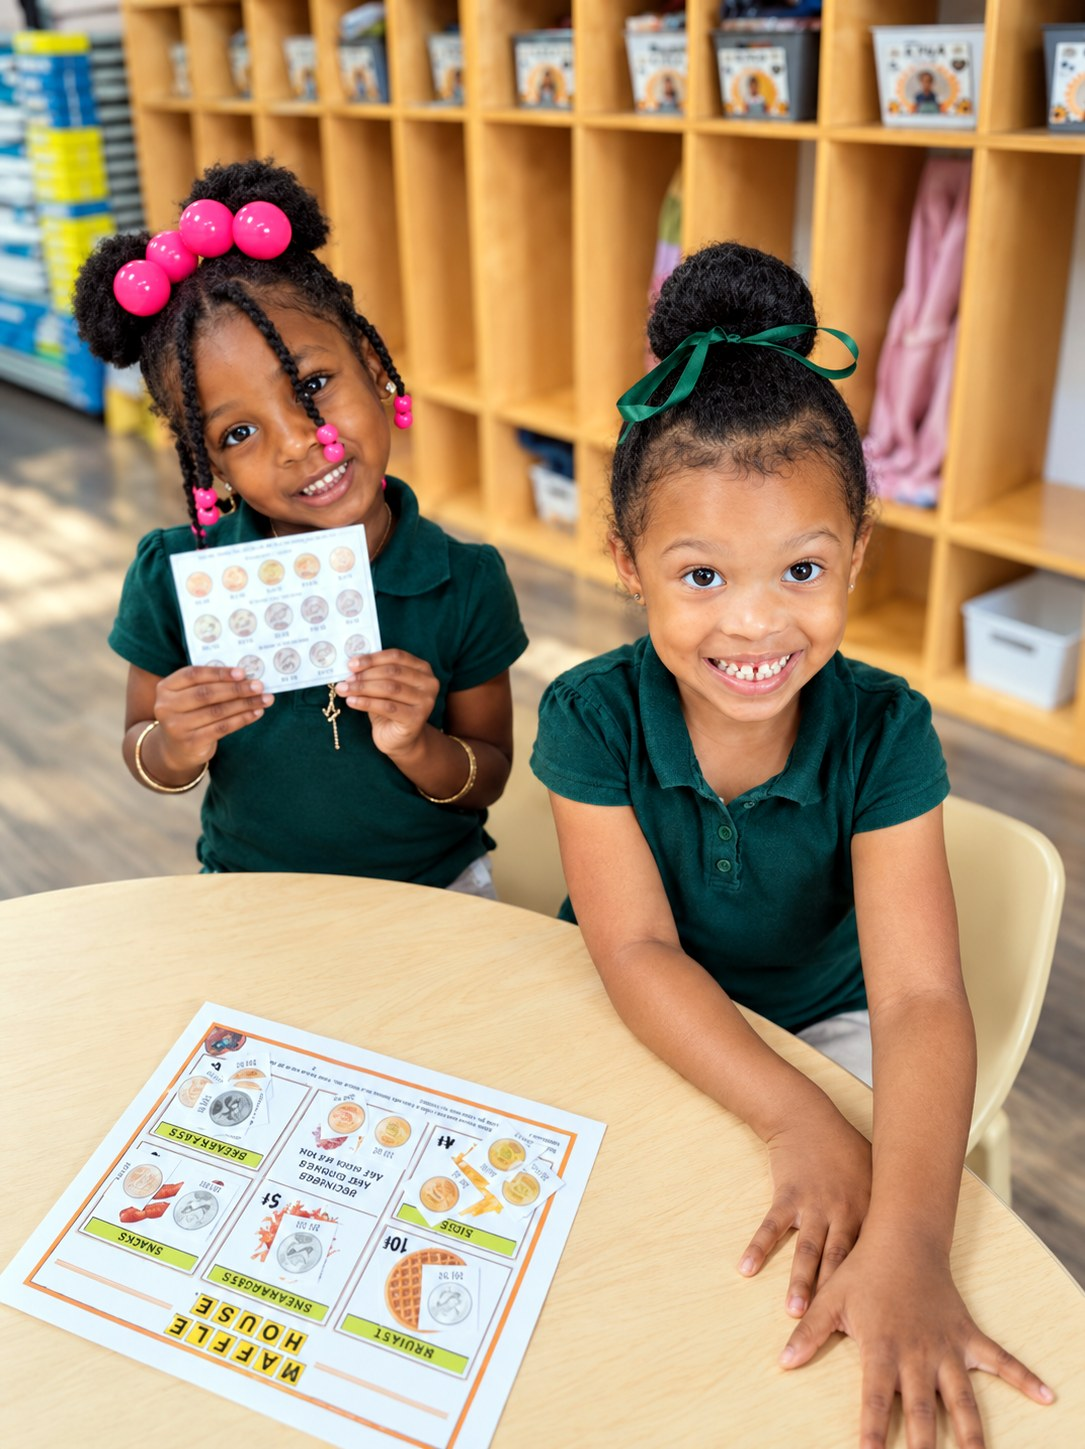
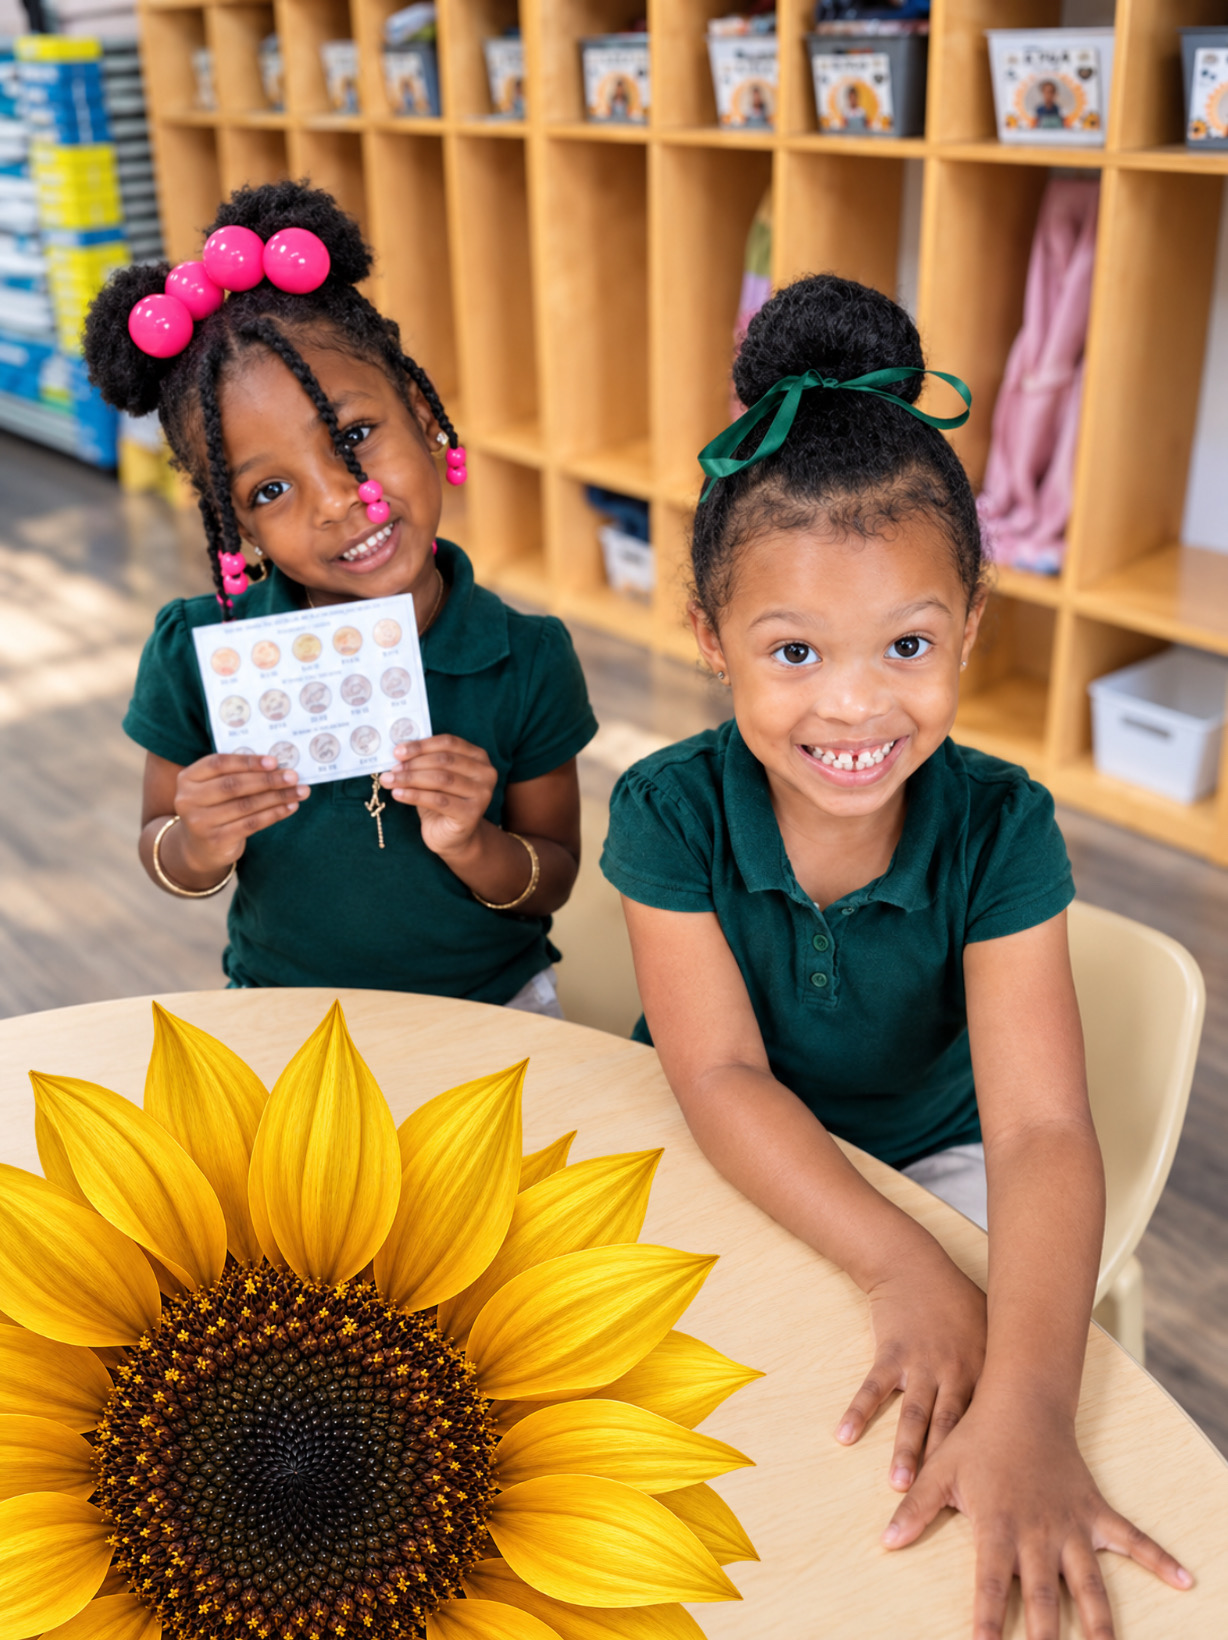
Update hero image and remove sunflower decoration

Changed region(s): [[0.0, 0.5901, 0.6387, 1.0]]

diff --git a/public/kipla-preview/theme.css b/public/kipla-preview/theme.css
@@ -162,16 +162,14 @@ p{margin:0 0 1rem}
 /* Soft fade only at the far-left edge where text sits — the rest of the photo stays fully visible */
 .hero__photo-mask{position:absolute;inset:0;pointer-events:none;z-index:1;background:linear-gradient(to right,var(--cream) 0%,rgba(254,250,240,.9) 6%,rgba(254,250,240,.3) 15%,rgba(254,250,240,0) 22%)}
 
-/* Sunflower image over the worksheet, clear of the hero text */
-.hero__sunflower-deco{position:absolute;bottom:1.5%;left:15%;width:28%;aspect-ratio:1/1;z-index:4;pointer-events:none;opacity:1}
-.hero__sunflower-deco img{width:100%;height:100%;object-fit:contain;display:block;filter:drop-shadow(0 4px 8px rgba(0,0,0,.28))}
+
 
 /* Top-right handwritten overlay — green text with yellow word-trace highlight */
 .hero__overlay-top{position:absolute;top:1.25rem;right:1.25rem;max-width:50%;text-align:right;font-family:"Dancing Script",cursive;font-size:clamp(1.2rem,2.4vw,1.75rem);color:var(--hunter);font-weight:700;z-index:3;line-height:1.25;text-shadow:1.5px 1.5px 0 #ffc300,3px 3px 0 rgba(255,195,0,.5),0 1px 2px rgba(0,0,0,.35)}
 .hero__overlay-hl{background:none}
 .hero__overlay-heart{color:var(--sunflower);font-size:1em;vertical-align:middle;margin-left:.15em}
 
-/* Bottom-left brush stroke badge, sitting beside the sunflower */
+/* Bottom-left brush stroke badge */
 .hero__overlay-bottom{position:absolute;bottom:0.5rem;left:17rem;display:flex;align-items:center;gap:.4rem;font-family:"Dancing Script",cursive;font-size:clamp(1rem,1.9vw,1.2rem);font-weight:700;color:var(--hunter);text-align:left;padding:.5rem .6rem;z-index:5;line-height:1.3;white-space:normal;max-width:11rem;text-shadow:1.5px 1.5px 0 #ffc300,3px 3px 0 rgba(255,195,0,.5),0 1px 2px rgba(0,0,0,.35)}
 .hero__overlay-brush{position:absolute;inset:0;width:100%;height:100%;z-index:-1;pointer-events:none;display:none}
 
@@ -183,7 +181,6 @@ p{margin:0 0 1rem}
   .hero--split .hero__media{position:static;width:100%;margin:clamp(2rem,5vw,3rem) auto 0;max-width:24rem}
   .hero__photo{position:relative;height:auto;aspect-ratio:1085/1449;min-height:0}
   .hero__photo-mask{background:linear-gradient(to top,var(--cream) 0%,rgba(254,250,240,0) 10%)}
-  .hero__sunflower-deco{width:26%}
   .hero__overlay-bottom{left:9rem;bottom:.25rem;max-width:9.5rem;padding:.6rem 1rem;font-size:.9rem}
 }
 

diff --git a/public/kipla-preview/index.html b/public/kipla-preview/index.html
@@ -58,7 +58,7 @@
     </div>
   </div>
   <div class="hero__media">
-    <span class="hero__sunflower-deco" aria-hidden="true"><img src="/kipla-preview/sunflower.png" alt=""></span>
+
     <div class="hero__photo">
       <img src="/kipla-preview/classroom-hero.jpg" alt="KIPLA scholars learning together in a bright classroom" loading="eager" />
       <span class="hero__photo-mask" aria-hidden="true"></span>
